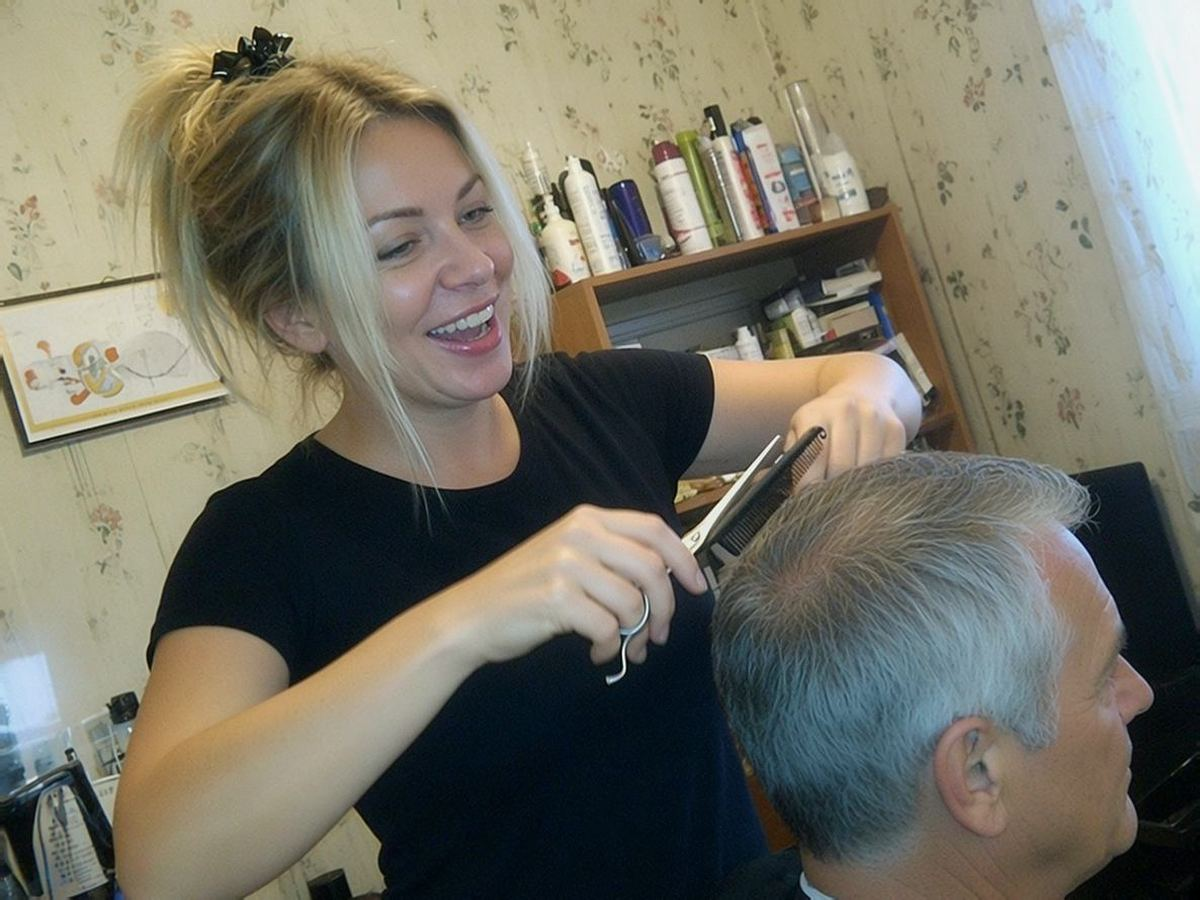
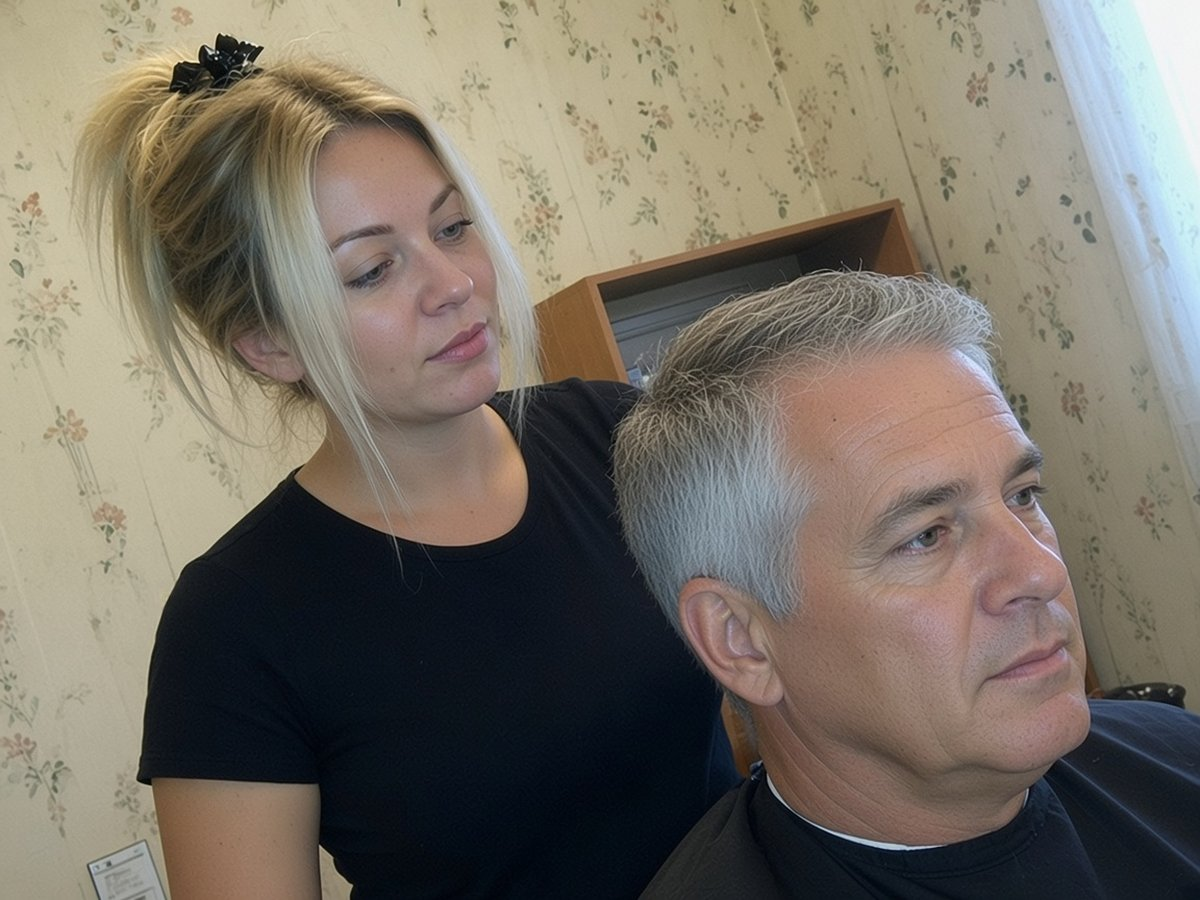
Photo realism v4: 17 remaining images re-shot preserving identity/story; SW v89

diff --git a/sw.js b/sw.js
@@ -1,5 +1,5 @@
 // Service worker: gra działa offline po pierwszym uruchomieniu.
-const VERSION = 'quiet-is-safer-v88';
+const VERSION = 'quiet-is-safer-v89';
 const FILES = [
   './', './index.html', './manifest.webmanifest', './icon.svg', './icon-192.png', './icon-512.png', './apple-touch-icon.png',
   './css/base.css', './css/apps.css', './css/web.css', './css/os.css', './css/messenger.css',

diff --git a/docs/PLAN-WDROZENIA-I-PRZEKAZANIE.md b/docs/PLAN-WDROZENIA-I-PRZEKAZANIE.md
@@ -831,3 +831,6 @@ Decyzje: klipy podpięte w odtwarzaczach na stronach www (bez nowych kroków fab
 ### 2026-10-24 — rollout metody v3 na zdjęcia (SW v88)
 Zamienione (25): portrety bartek, ewa, henryk, ida, igor, kuba, maja, nina, oskar, sylwia, zenon, zuza, ola; life: henryk_life1, kuba_life1, kuba_life2, nina_life1, weronika_life1, weronika_life2, zuza_life1, zuza_most; sceny: e_czytelnia, k_rozwidlenie, s1_lumpeks, s1_mem_kot.
 Zostają stare: janina (zielona dominanta), marta/weronika (dodane okulary), natan (kręcone włosy) — dryf tożsamości; bartek_life1/2, maja_life1, igor_life1/2, ola_life1/2, sylwia_life1, marta_life1, natan_life1, janina_life1 — zmiana treści/tożsamości lub artefakty; g_slady (ślady niewidoczne), e_pudlo, s1_bagaznik (zgubione rekwizyty fabularne), mp_osrodek pominięty. Codex: limit wyczerpany do 31.10 — ocena tylko na oko. Arkusz: /workspace/probki/rollout.jpg.
+
+### 2026-10-24 — v4: dokończenie 18 zostawionych zdjęć (SW v89)
+Zamienione (17): marta, weronika (bez okularów), natan (proste włosy), janina (korekta zielonej dominanty gray-world), bartek_life1 (auto), bartek_life2 (tablica/kiosk), maja_life1 (maszyna), igor_life1 (kobieta obok), igor_life2 (bloki, bez ruin), sylwia_life1 (klient mężczyzna), marta_life1, natan_life1, ola_life2, janina_life1, g_slady (wyraźne ślady), e_pudlo (pies+kasety), s1_bagaznik (liny, nożyce, rękawice). Metoda: obecny asset jako referencja + "re-shoot" z zachowaniem treści. Zostaje: ola_life1 (korekta koloru dała magentę). Zgoda Kacpra na samodzielne wdrażanie.
